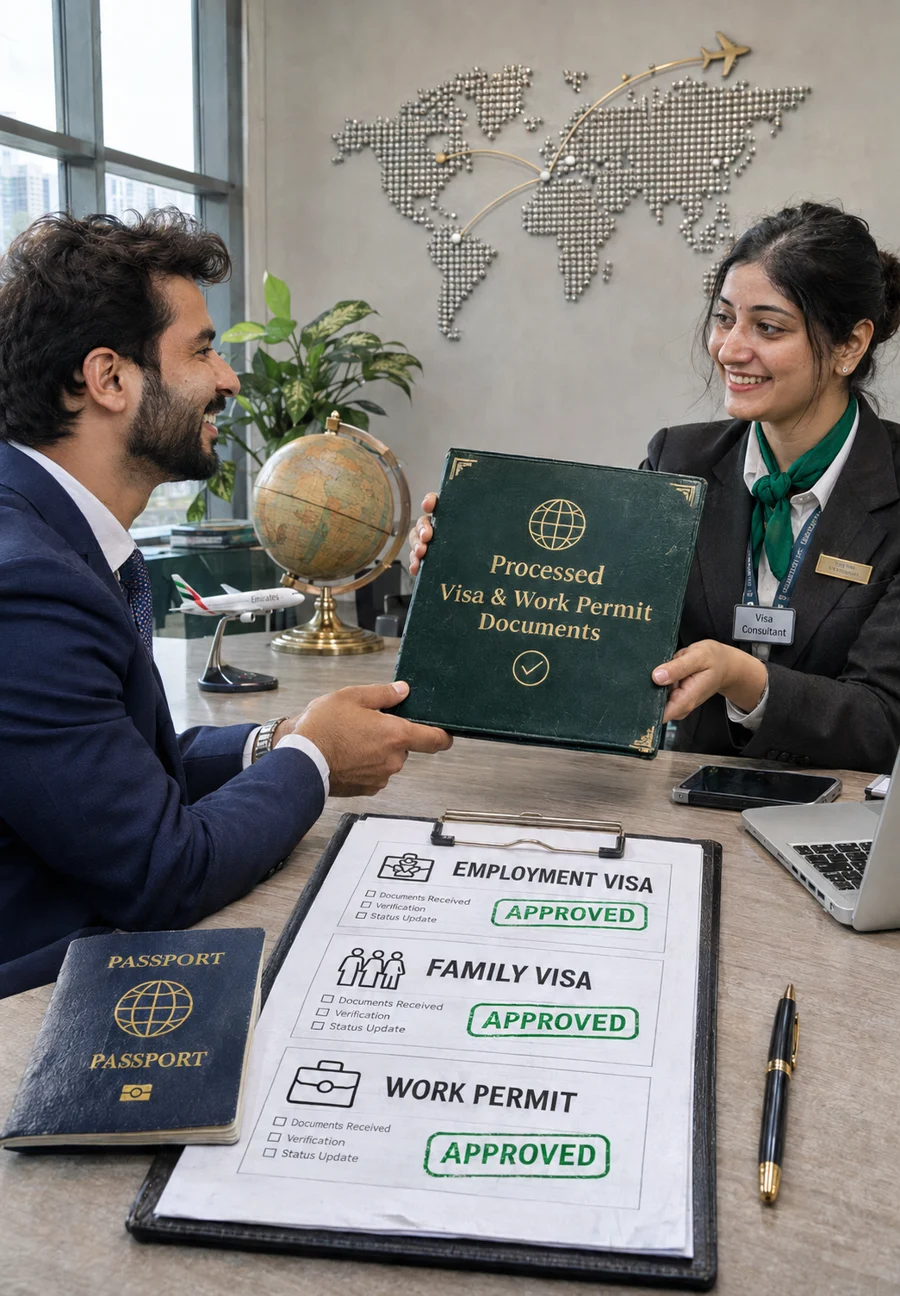
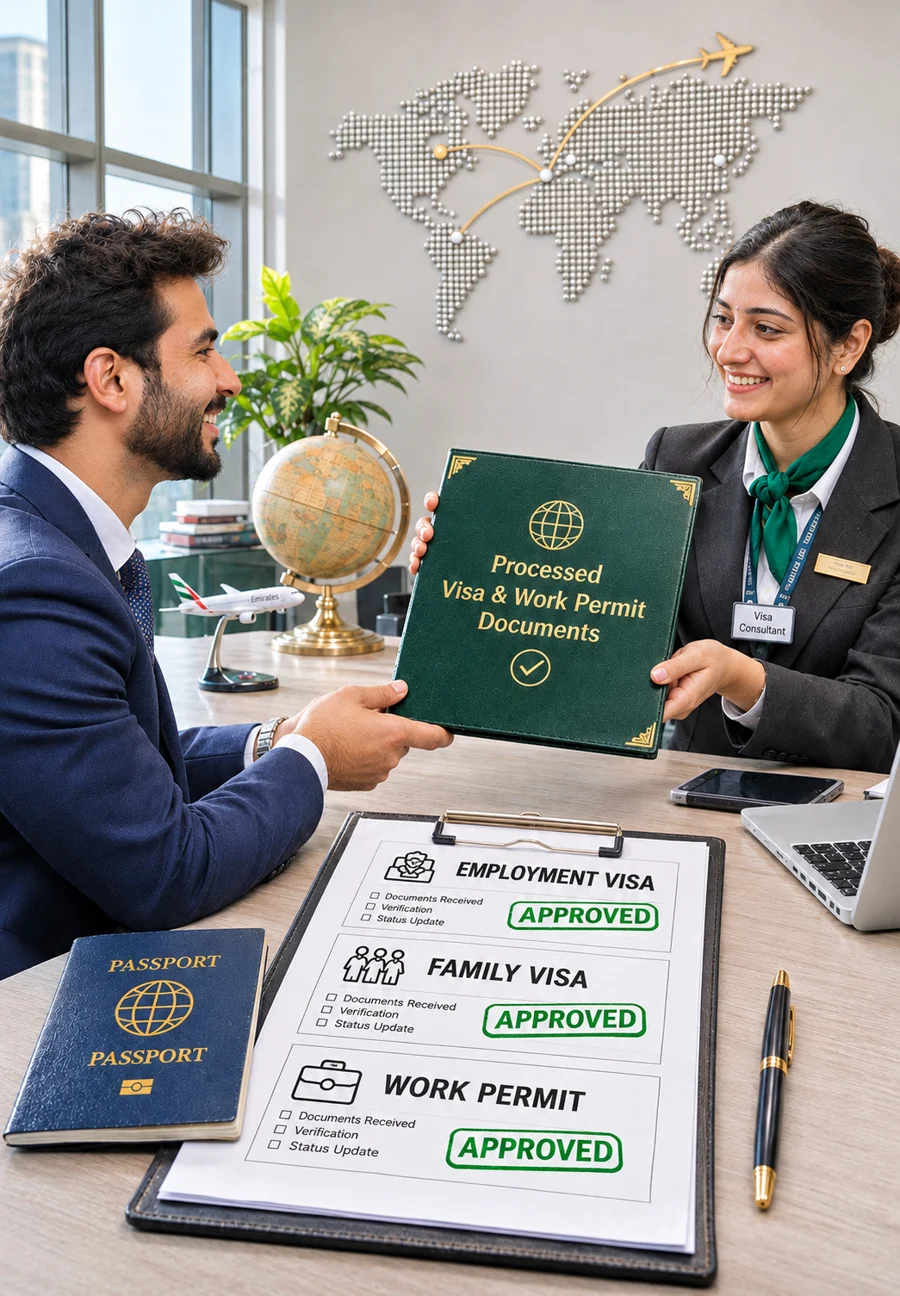
Visa & work permit card: brighter consultation image on LMRA pages
Claude-Session: https://claude.ai/code/session_01Q8SfPFzKec2UT1Fop63zbA

diff --git a/bahrain-ministry-services.html b/bahrain-ministry-services.html
@@ -10102,7 +10102,7 @@ input, select, textarea {
               <span class="svc-tags"><span class="svc-tag">New</span><span class="svc-tag">Renew</span></span>
             </li>
           </ul>
-            <div class="lmx-img lmx-pass" aria-hidden="true"><img src="assets/lmx-visa-consult.webp" style="object-position:center 30%!important" alt="" loading="lazy" decoding="async"></div>
+            <div class="lmx-img lmx-pass" aria-hidden="true"><img src="assets/lmx-visa-consult.webp?v=2" style="object-position:center 30%!important" alt="" loading="lazy" decoding="async"></div>
           </div>
         </article>
         <article class="lmx-g" id="lmx-g1" data-lmx="1">

diff --git a/lmra-services.html b/lmra-services.html
@@ -11887,7 +11887,7 @@ input, select, textarea {
               <span class="svc-tags"><span class="svc-tag">New</span><span class="svc-tag">Renew</span></span>
             </li>
           </ul>
-            <div class="lmx-img lmx-pass" aria-hidden="true"><img src="assets/lmx-plane.webp" alt="" loading="lazy" decoding="async"></div>
+            <div class="lmx-img lmx-pass" aria-hidden="true"><img src="assets/lmx-visa-consult.webp?v=2" style="object-position:center 30%!important" alt="" loading="lazy" decoding="async"></div>
           </div>
         </article>
         <article class="lmx-g" id="lmx-g1" data-lmx="1">
